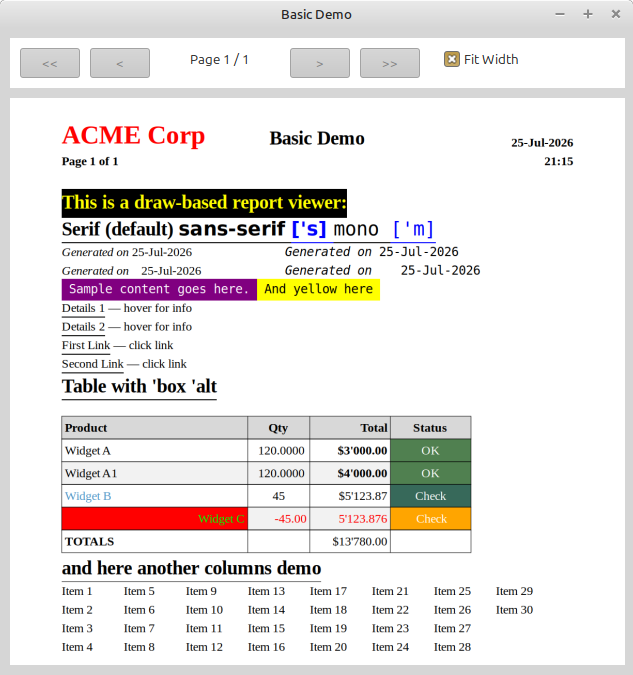
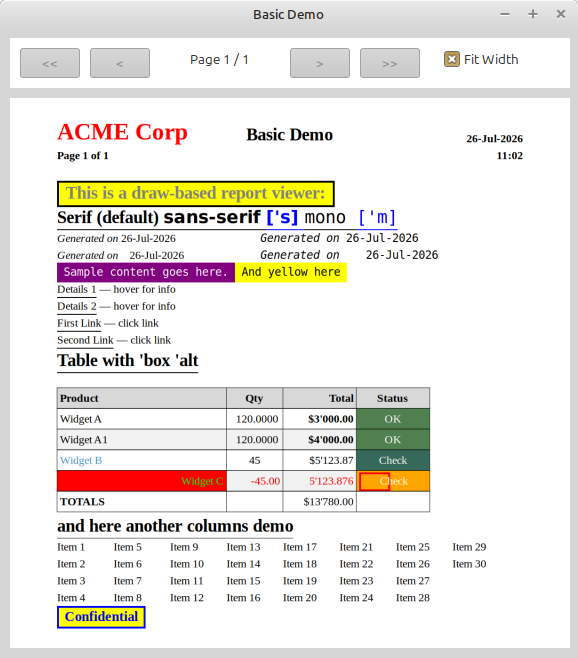
Add frame color (3rd tuple), fix merge-styles dedup bug
- 3rd tuple in style block draws a 2pt frame/border around text
- Frame drawn first (filled), then background on top (2px inset)
- Fix: merge-styles no longer deduplicates tuples (position matters)
- Update differences table with interactive links, hover hints, frame color

diff --git a/README.md b/README.md
@@ -165,6 +165,9 @@ Buttons are disabled when at the first or last page.
 | Content DSL | Identical | Identical |
 | Font metrics | PostScript `stringwidth` | `size-text/with` |
 | Coordinates | PostScript (Y up from bottom) | Draw (Y down from top) |
+| Interactive links | No (`'link-N` ignored) | Click handler via `/on-link` |
+| Hover hints | No (`'hint-N` ignored) | Hover handler via `/on-hint` (configurable delay) |
+| Frame color | Yes (3rd tuple) | Yes (3rd tuple) |
 
 ## Architecture
 
